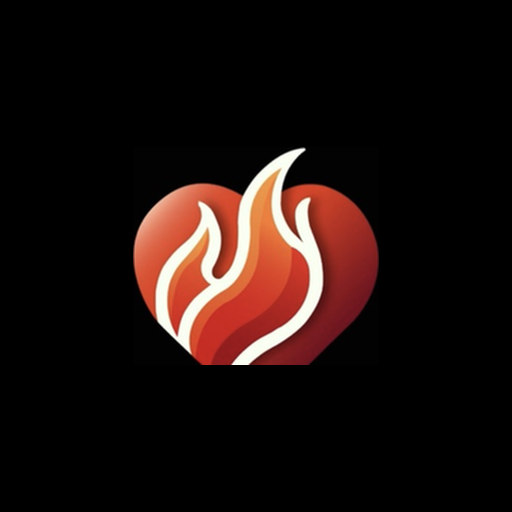
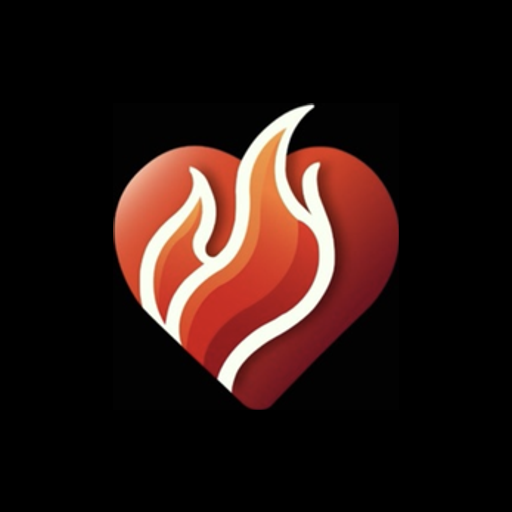
O coracao estava cortado na arte, e a sequencia seguia a pagina
O ICONE. Ele disse que o coracao continuava cortado da mesma forma, so mais
pequeno, e que o problema nao era o tamanho. Tinha razao inteira.

A arte de origem e o LOGOTIPO todo: coracao, a palavra SANTTIFY e o floreado
por baixo. A minha primeira extraccao apanhou uma caixa por cima disso tudo e
todos os cortes seguintes herdaram o estrago. Medido: 124 pixeis encostados a
borda de baixo da forma, que e a assinatura de uma figura fatiada.

O coracao vive entre y=94 e y=303 na arte original, com um vazio limpo ate ao
texto em y=336. Extraido so ele: 4 pixeis encostados em baixo em vez de 124, e
a ponta inteira. Os icones sao refeitos a partir dai, a 70 por cento.

A SEQUENCIA seguia a ordem dos audios NA PAGINA. Dentro de uma letra dava a
ilusao de funcionar, porque ali a ordem da pagina e a ordem dele. Nunca
atravessava para a letra seguinte e nao sabia o que era uma categoria.

Passa a vir da mesma lista que alimenta a playlist: todas as faixas publicadas
por ordem de letra. Escolher Oracao toca a Oracao da A, da B, da C. E quando a
seguinte esta noutra letra, a pagina inicial abre-a sem sair dela, que e a
regra dele de 20/08.

E SEM CATEGORIA NUNCA TOCA SOZINHA, nem em TODOS. Um aviso administrativo que
comeca a tocar por si no meio de uma sequencia de musicas e o genero de coisa
que numa plataforma para criancas nao se deixa acontecer por distraccao.
Continua a tocar quando alguem carrega nela.

diff --git a/apps/web/src/lib/tocar-em-sequencia.ts b/apps/web/src/lib/tocar-em-sequencia.ts
@@ -1,66 +1,126 @@
 /**
- * Quando uma faixa acaba, começa a seguinte.
+ * Quando uma faixa acaba, começa a seguinte DA MESMA CATEGORIA.
  *
- * Pedido dele em 02/09, e é a segunda vez que o pede: "quando seleciono Todos,
- * a música toca normalmente mas quando termina a reprodução para; o correto é
- * iniciar a próxima, depois a próxima, até terminar a sequência".
+ * Pedido dele em 02/09, depois de a reprodução contínua já funcionar: "se
+ * estiver tocando Explicação e eu selecionar Oração, a próxima faixa tem que
+ * ser uma Oração; se eu escolher Explicação, deve tocar Explicação da letra A,
+ * depois da B, depois da C". E a segunda metade, que é de segurança: "existem
+ * áudios administrativos que estão Sem categoria; esses não podem entrar na
+ * reprodução automática, nem mesmo em TODOS".
  *
- * O que existia era um filtro chamado TODOS, que escolhe QUAIS faixas se veem.
- * Ele leu a palavra como "tocar todas", que é a leitura natural e a que
- * qualquer pessoa faz. Ninguém estava ligado ao fim de uma faixa: o áudio
- * acabava e a página ficava quieta.
+ * O QUE ESTAVA AQUI seguia a ordem dos áudios NA PÁGINA. Dentro de uma letra
+ * dava a ilusão de funcionar, porque ali a ordem da página é a ordem dele. Mas
+ * nunca atravessava para a letra seguinte e não sabia o que era uma categoria,
+ * então um aviso administrativo entrava na fila como qualquer outra coisa.
  *
- * PORQUE É AQUI E NÃO NUMA PROPRIEDADE PASSADA DE PÁGINA EM PÁGINA. As faixas
- * são desenhadas em quatro sítios diferentes — a letra aberta na página
- * inicial, a página própria da letra, o Produto Vivo e a playlist. Passar uma
- * função por todos eles seria quatro sítios para esquecer, e o esquecido
- * falharia calado, que é o defeito que este projeto já teve de sobra.
+ * A FILA VEM DO SERVIDOR, da mesma lista que alimenta a playlist: todas as
+ * faixas publicadas do projeto, por ordem de letra e depois por ordem dentro da
+ * letra. É a ordem A → B → C que ele descreveu, e não a inventei aqui.
  *
- * A SEGUINTE É A SEGUINTE QUE SE VÊ. Se houver um filtro de categoria activo,
- * as faixas escondidas não entram: `checkVisibility` responde pelo que está
- * mesmo pintado, e não pelo que existe no documento. Foi essa a diferença que
- * me enganou em 01/09 a medir um `<details>` fechado.
+ * SEM CATEGORIA NUNCA TOCA SOZINHA. Nem no filtro TODOS. Um aviso que começa a
+ * tocar por si, no meio de uma sequência de músicas, é o género de coisa que
+ * numa plataforma para crianças não se pode deixar acontecer por distração.
+ * Continua a tocar quando alguém carrega nela, que é o pedido dele.
  */
+import { lerCategoriaATocar } from './categoria-a-tocar'
 
-/** Todos os áudios da página, pela ordem em que se veem. */
-function audiosVisiveis(): HTMLAudioElement[] {
-  const todos = Array.from(document.querySelectorAll<HTMLAudioElement>('audio[src], audio source'))
-    .map((el) => (el.tagName === 'AUDIO' ? el : el.parentElement) as HTMLAudioElement)
-    .filter((el): el is HTMLAudioElement => el?.tagName === 'AUDIO')
+interface Faixa {
+  id: string
+  slug: string
+  categoriaNome: string | null
+}
 
-  // Sem duplicados: um `<audio>` com `<source>` lá dentro aparece duas vezes.
-  const unicos = Array.from(new Set(todos))
+let fila: Faixa[] | null = null
+let aBuscar: Promise<Faixa[]> | null = null
 
-  return unicos.filter((el) => {
-    const caixa = el.closest('.publicacao, .cartao-publicacao, .faixa') ?? el
-    if (typeof (caixa as HTMLElement).checkVisibility === 'function') {
-      return (caixa as HTMLElement).checkVisibility({ checkVisibilityCSS: true })
-    }
-    return true
-  })
+/** O projeto sai do endereço: /<projeto>/... em qualquer página pública. */
+function projetoDoEndereco(): string | null {
+  const p = window.location.pathname.split('/').filter(Boolean)
+  return p[0] ?? null
+}
+
+async function filaDoProjeto(): Promise<Faixa[]> {
+  if (fila) return fila
+  if (aBuscar) return aBuscar
+  const projeto = projetoDoEndereco()
+  if (!projeto) return []
+  const base = process.env.NEXT_PUBLIC_API_URL ?? ''
+  aBuscar = fetch(`${base}/projects/${projeto}/playlist`)
+    .then((r) => (r.ok ? r.json() : null))
+    .then((d) => {
+      fila = (d?.faixas ?? []).map((f: Faixa) => ({
+        id: f.id,
+        slug: f.slug,
+        categoriaNome: f.categoriaNome ?? null,
+      }))
+      return fila!
+    })
+    .catch(() => [])
+  return aBuscar
+}
+
+/** O `<audio>` de uma faixa, se ela estiver desenhada nesta página. */
+function audioDaFaixa(blockId: string): HTMLAudioElement | null {
+  return document.querySelector<HTMLAudioElement>(`#cartao-${blockId} audio`)
+}
+
+/** A que faixa pertence este `<audio>`. */
+function faixaDoAudio(audio: HTMLAudioElement): string | null {
+  const artigo = audio.closest('[id^="cartao-"]')
+  return artigo?.id.replace('cartao-', '') ?? null
 }
 
 /**
- * Toca a faixa a seguir a esta. Devolve `true` se havia uma.
+ * Toca a faixa a seguir a esta, dentro da categoria escolhida.
  *
- * Leva a página até ela: continuar a tocar sem mostrar qual é deixa a pessoa a
- * ouvir uma coisa e a olhar para outra.
+ * Se a seguinte estiver nesta página, toca-a aqui. Se estiver noutra letra,
+ * pede à página que a abra — a página inicial abre letras sem sair dela, e é
+ * assim que a sequência atravessa de A para B sem partir a regra dele de 20/08
+ * de que ninguém sai do perfil.
  */
-export function tocarASeguinte(atual: HTMLAudioElement): boolean {
-  const lista = audiosVisiveis()
-  const i = lista.indexOf(atual)
-  if (i < 0 || i + 1 >= lista.length) return false
+export async function tocarASeguinte(atual: HTMLAudioElement): Promise<boolean> {
+  const daqui = faixaDoAudio(atual)
+  if (!daqui) return false
 
-  const proxima = lista[i + 1]
-  const caixa = proxima.closest('.publicacao, .cartao-publicacao, .faixa') ?? proxima
-  caixa.scrollIntoView({ behavior: 'smooth', block: 'center' })
+  const todas = await filaDoProjeto()
+  if (!todas.length) return false
 
-  /*
-    O `play()` pode ser recusado pelo navegador e devolve uma promessa que
-    rejeita. Não é erro nosso e não há nada a fazer com ele: a pessoa carrega no
-    play da faixa seguinte, que está agora à vista. Deixar a rejeição sem
-    tratamento enchia a consola de quem visita.
-  */
-  void proxima.play().catch(() => {})
+  const escolhida = lerCategoriaATocar()
+  const semFiltro = !escolhida || escolhida === 'TODOS'
+
+  /* Sem categoria fica sempre de fora, com filtro ou sem ele. */
+  const candidatas = todas.filter(
+    (f) => f.categoriaNome && (semFiltro || f.categoriaNome.toUpperCase() === escolhida),
+  )
+
+  /* A posição de onde estamos mede-se na fila INTEIRA, e não na filtrada: a
+     faixa que está a tocar pode não pertencer à categoria escolhida — é
+     exactamente o caso que ele descreveu, "estou a ouvir Explicação e escolho
+     Oração". Daí procura-se a primeira da categoria que venha depois desta. */
+  const ondeEstou = todas.findIndex((f) => f.id === daqui)
+  if (ondeEstou < 0) return false
+  const depoisDaqui = new Set(todas.slice(ondeEstou + 1).map((f) => f.id))
+  const proxima =
+    candidatas.find((f) => depoisDaqui.has(f.id)) ??
+    /* Chegou ao fim: não recomeça sozinha. Voltar ao A depois do Z deixaria
+       música a tocar sem ninguém ter pedido, que é a regra que já vale na
+       playlist. */
+    null
+  if (!proxima) return false
+
+  const aqui = audioDaFaixa(proxima.id)
+  if (aqui) {
+    const caixa = aqui.closest('.publicacao') ?? aqui
+    caixa.scrollIntoView({ behavior: 'smooth', block: 'center' })
+    void aqui.play().catch(() => {})
+    return true
+  }
+
+  /* Noutra letra: quem sabe abri-la é a página. Se ninguém estiver a ouvir
+     este pedido, a sequência pára aqui, que é melhor do que saltar a pessoa
+     para outro endereço sem ela pedir. */
+  window.dispatchEvent(
+    new CustomEvent('pv:tocar-faixa', { detail: { slug: proxima.slug, blockId: proxima.id } }),
+  )
   return true
 }

diff --git a/apps/web/src/components/ExperienciaContinua.tsx b/apps/web/src/components/ExperienciaContinua.tsx
@@ -146,6 +146,48 @@ export function ExperienciaContinua({
   }, [aberta])
 
   /*
+    A SEQUÊNCIA ATRAVESSA DE UMA LETRA PARA A OUTRA.
+
+    Pedido dele em 02/09: escolher Explicação e ouvir a Explicação da A, depois
+    a da B, depois a da C. Quando a faixa seguinte da categoria está noutra
+    letra, `tocar-em-sequencia` não a encontra no ecrã e pede-a por aqui.
+
+    ABRE A LETRA SEM SAIR DA PÁGINA, que é o que esta tela já sabe fazer desde
+    20/08 e a razão de ela existir: "a pessoa entra no perfil e não sai dele".
+    Levá-la a outro endereço para continuar a ouvir seria desfazer isso para
+    resolver outra coisa.
+  */
+  const faixaPedida = useRef<string | null>(null)
+  useEffect(() => {
+    const ouvir = (ev: Event) => {
+      const { slug, blockId } = (ev as CustomEvent).detail ?? {}
+      if (!slug || !blockId) return
+      const item = contents.find((c) => c.slug === slug)
+      if (!item?.publicado) return
+      faixaPedida.current = blockId
+      void escolher(item)
+    }
+    window.addEventListener('pv:tocar-faixa', ouvir)
+    return () => window.removeEventListener('pv:tocar-faixa', ouvir)
+    // eslint-disable-next-line react-hooks/exhaustive-deps
+  }, [contents])
+
+  /* Quando a letra chega, toca a faixa que a sequência pediu. */
+  useEffect(() => {
+    const alvo = faixaPedida.current
+    if (!aberta || !alvo) return
+    faixaPedida.current = null
+    const t = setTimeout(() => {
+      const audio = document.querySelector<HTMLAudioElement>(`#cartao-${alvo} audio`)
+      if (!audio) return
+      const caixa = audio.closest('.publicacao') ?? audio
+      caixa.scrollIntoView({ behavior: 'smooth', block: 'center' })
+      void audio.play().catch(() => {})
+    }, 600)
+    return () => clearTimeout(t)
+  }, [aberta])
+
+  /*
     ABRIR A PUBLICAÇÃO QUE O ENDEREÇO PEDE.
 
     `?letra=e&pub=<id>` é o que sai do botão de compartilhar. Corre uma vez, na

diff --git a/apps/web/src/components/TocadorDeOnda.tsx b/apps/web/src/components/TocadorDeOnda.tsx
@@ -320,7 +320,7 @@ export function TocadorDeOnda({
               qualquer faixa, e não numa propriedade que quatro páginas teriam
               de passar: a que se esquecesse falhava calada.
             */
-            if (audio.current) tocarASeguinte(audio.current)
+            if (audio.current) void tocarASeguinte(audio.current)
           }}
         >
           <source src={bloco.asset?.url} type={bloco.asset?.mimeType ?? undefined} />
